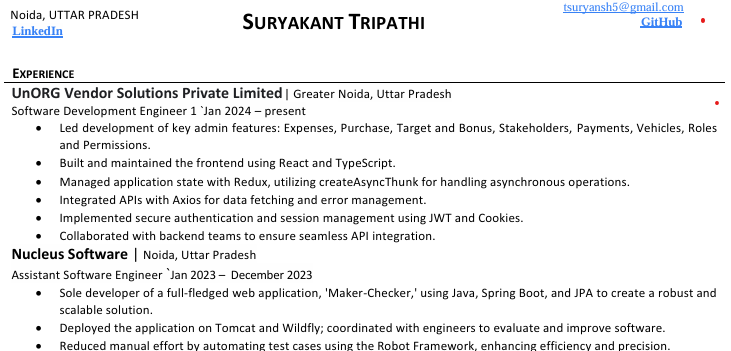
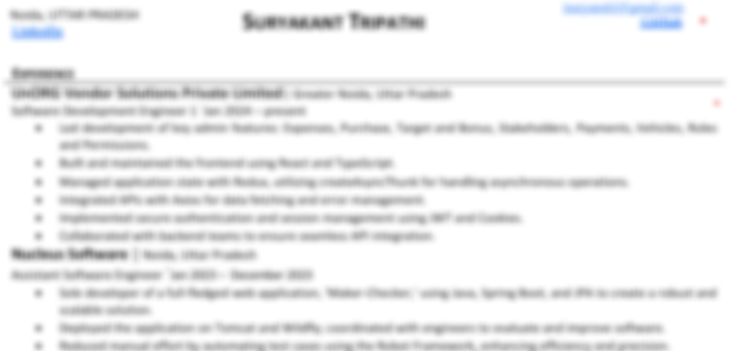
added resume blur

diff --git a/script.js b/script.js
@@ -1,9 +1,9 @@
 var audio = new Audio("assets/sentmessage.mp3");
 var contactString =
   "<div class='social'> <a href='mailto:tsuryansh5@gmail.com'> <div class='socialItem'><img class='socialItemI' src='images/gmail.svg' alt=''></div> </a> <a target='_blank' href='https://github.com/Tsurya06'> <div class='socialItem'><img class='socialItemI' src='images/github.svg' alt=''></div> </a> <a href='https://www.linkedin.com/in/suryakant-tripathi-9649a8191/' target='_blank' rel='noopener noreferrer'> <div class='socialItem'><img class='socialItemI' src='images/linkedin.svg' alt=''></div> </a> </div>";
-var resumeString =
-  "<img src='images/resumeThumbnail.png' class='resumeThumbnail'><div class='downloadSpace'><div class='pdfname'><img src='images/pdf.png'><label>Suryakant_Tripathi_resume.pdf</label></div><a href='assets/Suryakant_Tripathi_Resume.pdf' download='Suryakant_Tripathi_Resume.pdf'><img class='download' src='images/downloadIcon.svg'></a></div>";
-var addressString =
+  var resumeString =
+  "<div class='resumeContainer'><iframe class='blurred-pdf' src='https://drive.google.com/file/d/1vylOfca3_CUnu2E1EERSPzeMA_CxcLx-/preview' width='640' height='480' allow='autoplay'></iframe><div class='downloadSpace'><div class='pdfname'><img src='images/pdf.png'><label>Suryakant_Tripathi_resume.pdf</label></div><a href='https://drive.google.com/uc?export=download&id=1vylOfca3_CUnu2E1EERSPzeMA_CxcLx-' download='Suryakant_Tripathi_Resume.pdf'><img class='download' src='images/downloadIcon.svg'></a></div></div>";
+    var addressString =
   "<div class='mapview'><iframe src='https://www.google.com/maps/embed?pb=!1m18!1m12!1m3!1d8760.13797214269!2d83.54867467930363!3d27.1482149164779!2m3!1f0!2f0!3f0!3m2!1i1024!2i768!4f13.1!3m3!1m2!1s0x3996a9a0e4574cb5%3A0xeac3ec2ac456ac5f!2sShastri%20Nagar%2C%20Maharajganj%2C%20Uttar%20Pradesh%20273303!5e0!3m2!1sen!2sin!4v1724918516780!5m2!1sen!2sin' width='600' height='450' style='border:0;' allowfullscreen='' loading='lazy' referrerpolicy='no-referrer-when-downgrade'></iframe></div><label class='add'><address>Shastri Nagar<br>Ward No. 22<br>Maharajganj, Uttar Pradesh, INDIA 273303</address>";
 
 function startFunction() {

diff --git a/style.css b/style.css
@@ -348,6 +348,12 @@ footer{
     color: #8696a0;
   }
 
+  .blurred-pdf {
+    filter: blur(5px);
+    width: 100%;
+    height: 350px;
+    pointer-events: none; 
+  }
 
 
 @media screen and (min-width: 1024px) {
